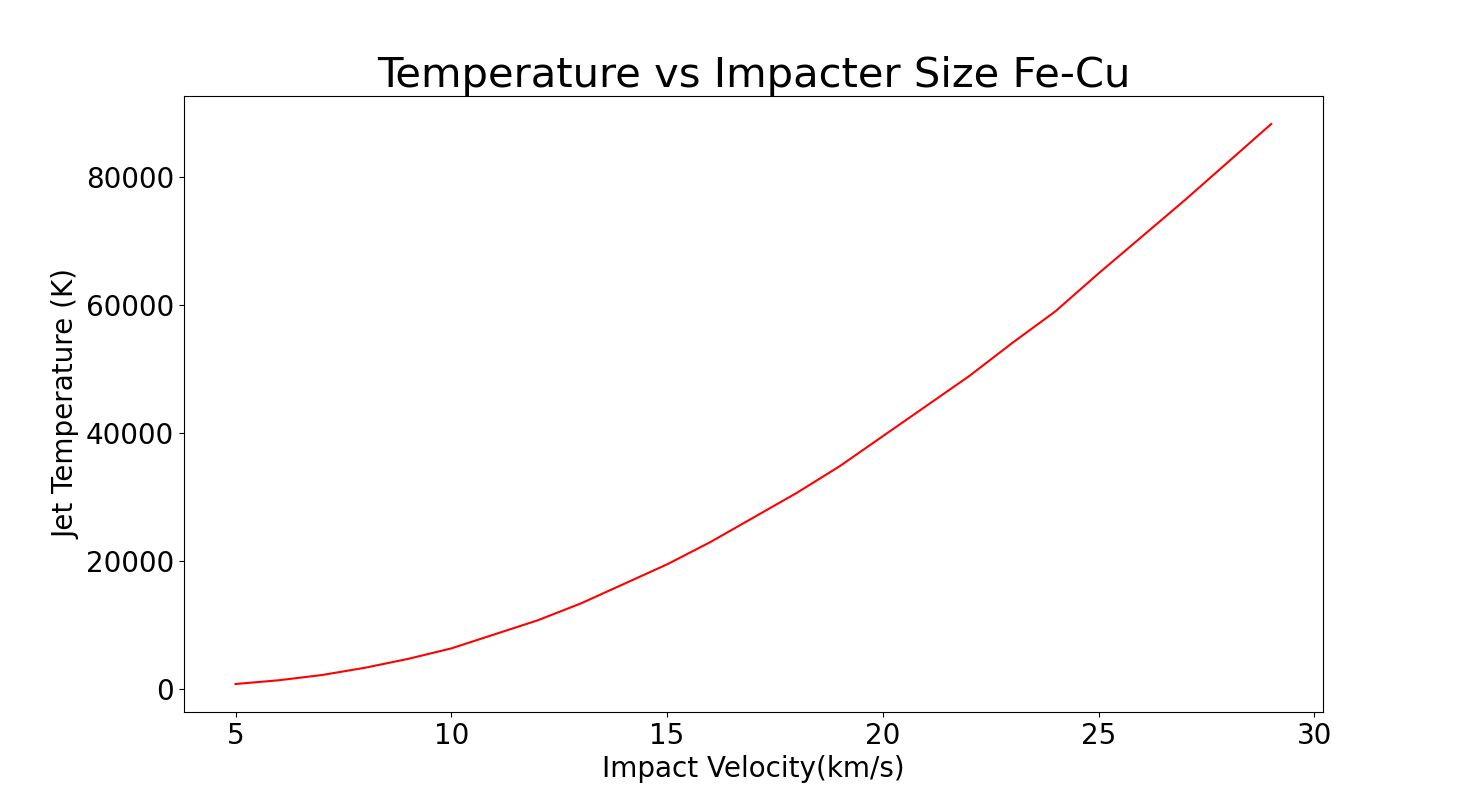
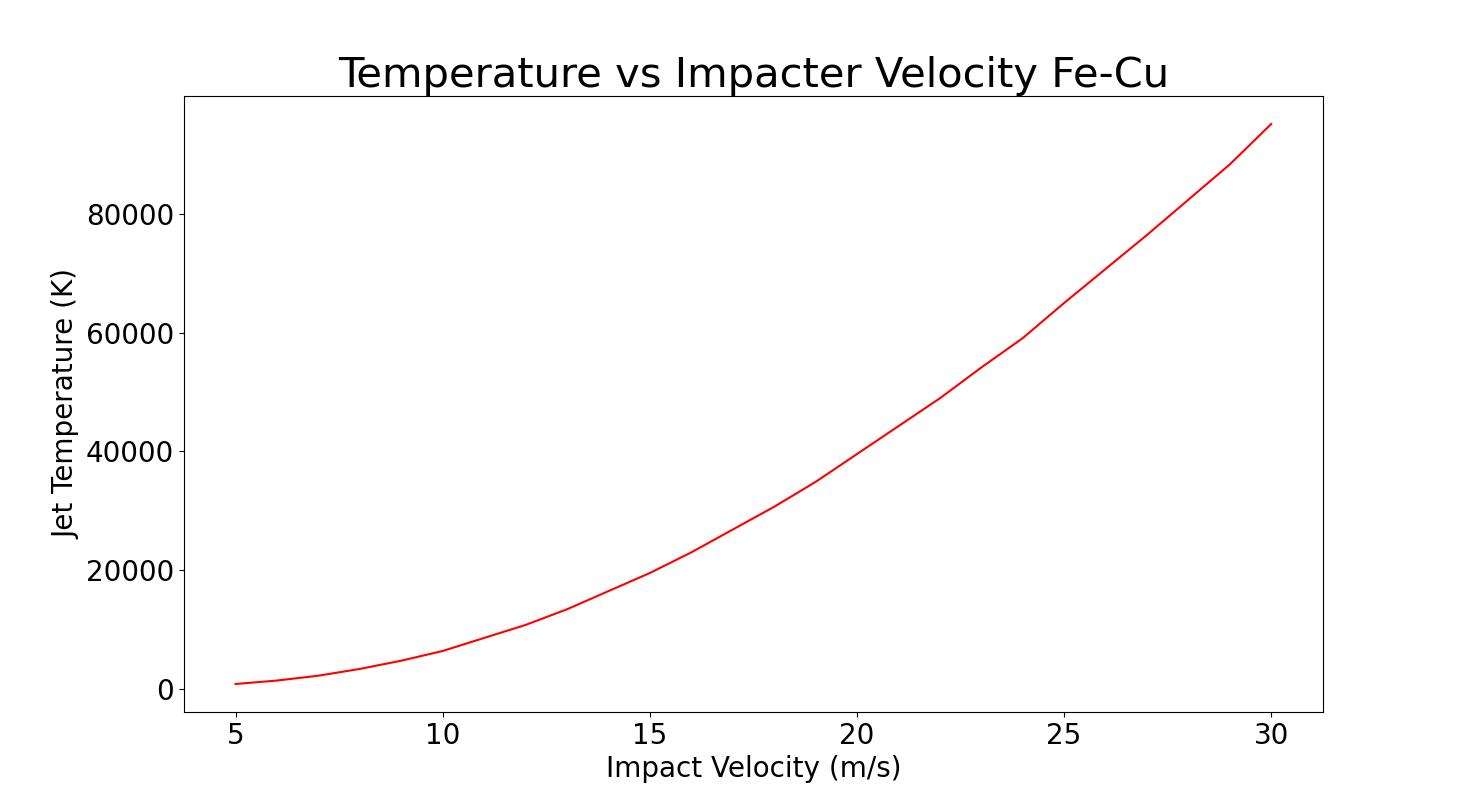
plot

diff --git a/result.py b/result.py
@@ -3,7 +3,7 @@ from result_jet import jet
 from params import *
 import matplotlib.pyplot as plt
 
-theta_range = np.arange(5, 30, 1)
+theta_range = np.arange(5, 31, 1)
 
 # Arrays to store results
 result_var1 = []
@@ -25,9 +25,9 @@ plt.figure(figsize=(10, 10))
 plt.plot(theta_range, temp_interp, linestyle='-', color='red')
 plt.xticks(fontsize=20)
 plt.yticks(fontsize=20)
-plt.xlabel('Impact Velocity(km/s)', fontsize=20)
+plt.xlabel('Impact Velocity (m/s)', fontsize=20)
 plt.ylabel('Jet Temperature (K)', fontsize=20) 
-plt.title('Temperature vs Impacter Size Fe-Cu', fontsize=30)
+plt.title('Temperature vs Impacter Velocity Fe-Cu', fontsize=30)
 plt.show()
  
 

diff --git a/result_jet.py b/result_jet.py
@@ -8,7 +8,6 @@ from utils import *
 warnings.filterwarnings('ignore')
 
 def jet(V0):
-    print(V0)
     T = R / (V0 * np.sin(np.deg2rad(theta)))
     To = np.linspace(0,T, 1000)
     T = To[1:1000]

diff --git a/params.py b/params.py
@@ -1,5 +1,5 @@
 #Hugoniot Parameters
-# V0 = 27e3
+# V0 = 10e3
 theta = 90
 R = 0.00024
 d1 = 7680
